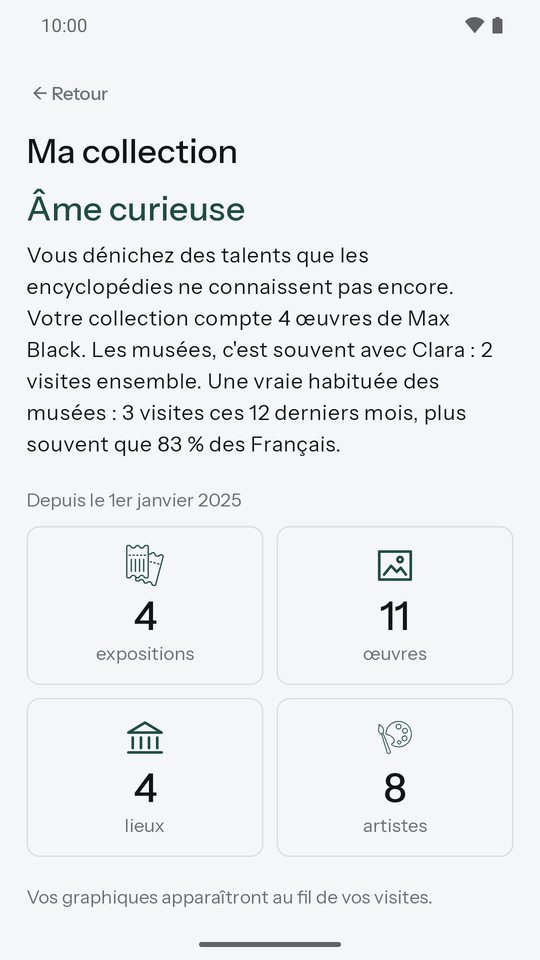
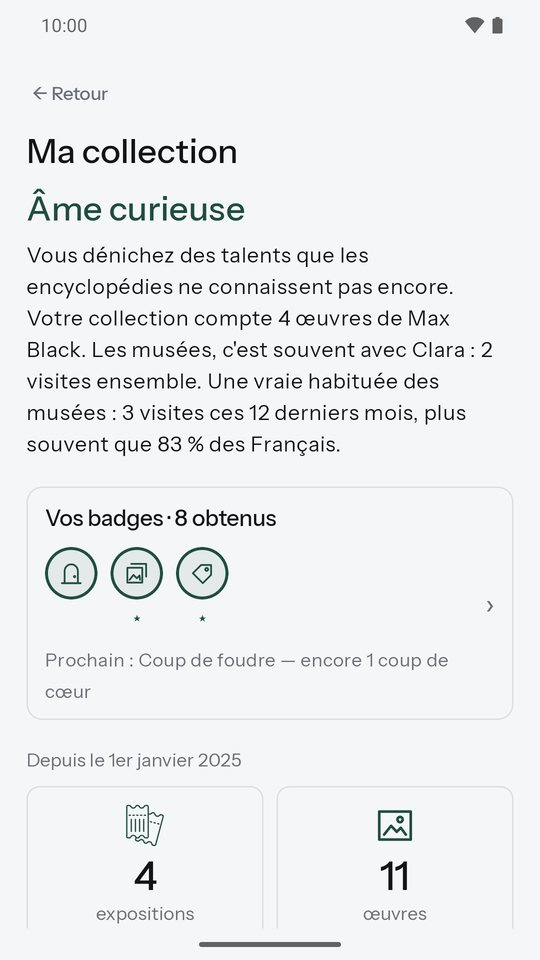
Add files via upload

diff --git a/index.html b/index.html
@@ -129,7 +129,7 @@ footer .wrap { display: flex; flex-wrap: wrap; gap: 8px 24px; justify-content: s
       </div>
       <div class="fonction">
         <div class="texte"><h3>Vos coups de cœur, en un geste</h3><p>Touchez le cœur d'une œuvre, dans la liste ou sur sa fiche : elle rejoint vos coups de cœur. En haut de la liste, un filtre n'affiche plus qu'eux, toujours classés par exposition, date, lieu ou artiste. Votre musée idéal, en un coup d'œil.</p></div>
-        <div class="telephone"><picture><source srcset="assets/fr-sombre-07-coups-de-coeur.jpg" media="(prefers-color-scheme: dark)"><img src="assets/fr-clair-07-coups-de-coeur.jpg" alt="La collection réduite aux coups de cœur" width="540" height="960" loading="lazy" decoding="async"></picture></div>
+        <div class="telephone"><picture><source srcset="assets/fr-sombre-01-liste-expositions.jpg" media="(prefers-color-scheme: dark)"><img src="assets/fr-clair-01-liste-expositions.jpg" alt="La collection, avec un cœur sur chaque œuvre" width="540" height="960" loading="lazy" decoding="async"></picture></div>
       </div>
       <div class="fonction">
         <div class="texte"><h3>Gardez ce qui compte pour vous</h3><p>Vos impressions, le texte du cartel, vos propres tags comme « À revoir ». Plusieurs photos par œuvre, à recadrer ou pivoter d'un geste, et votre musée préféré proposé par défaut.</p></div>
@@ -140,8 +140,12 @@ footer .wrap { display: flex; flex-wrap: wrap; gap: 8px 24px; justify-content: s
         <div class="telephone"><picture><source srcset="assets/fr-sombre-05-recherche.jpg" media="(prefers-color-scheme: dark)"><img src="assets/fr-clair-05-recherche.jpg" alt="Recherche dans la collection" width="540" height="960" loading="lazy" decoding="async"></picture></div>
       </div>
       <div class="fonction">
-        <div class="texte"><h3>Votre collection en chiffres</h3><p>Votre profil d'amateur et un portrait qui évolue avec vos visites : votre artiste de prédilection, votre musée fétiche, votre complice de musée, votre rythme de visite comparé aux statistiques nationales, et vos œuvres par artiste, mouvement, époque et lieu.</p></div>
-        <div class="telephone"><picture><source srcset="assets/fr-sombre-06-ma-collection.jpg" media="(prefers-color-scheme: dark)"><img src="assets/fr-clair-06-ma-collection.jpg" alt="Ma collection en chiffres" width="540" height="960" loading="lazy" decoding="async"></picture></div>
+        <div class="texte"><h3>Votre profil d'amateur</h3><p>« Âme impressionniste », « Passionnée de Renaissance », « Dénicheuse de talents »… Ma collection dresse votre portrait, qui évolue avec vos visites : votre artiste de prédilection, votre musée fétiche, votre complice de musée, votre rythme de visite comparé aux statistiques nationales, et vos œuvres par artiste, mouvement, époque et lieu. Au féminin ou au masculin, comme vous préférez.</p></div>
+        <div class="telephone"><picture><source srcset="assets/fr-sombre-06-ma-collection.jpg" media="(prefers-color-scheme: dark)"><img src="assets/fr-clair-06-ma-collection.jpg" alt="Ma collection : le profil et les chiffres" width="540" height="960" loading="lazy" decoding="async"></picture></div>
+      </div>
+      <div class="fonction">
+        <div class="texte"><h3>Des badges à collectionner</h3><p>Marathon, Quatre saisons, Nuit des musées, Plume… 27 badges se gagnent au fil de vos visites, avec cinq paliers du bronze au diamant. Un message vous prévient dès que vous en décrochez un. Les autres restent une surprise, mais vos prochains objectifs vous montrent ceux qui sont à portée.</p></div>
+        <div class="telephone"><picture><source srcset="assets/fr-sombre-07-mes-badges.jpg" media="(prefers-color-scheme: dark)"><img src="assets/fr-clair-07-mes-badges.jpg" alt="Mes badges et les prochains objectifs" width="540" height="960" loading="lazy" decoding="async"></picture></div>
       </div>
       <div class="fonction">
         <div class="texte"><h3>Vos données restent à vous</h3><p>Tout est enregistré sur votre téléphone. Aucun compte, aucune publicité. Si vous le souhaitez, une sauvegarde dans votre propre Google Drive, avec restauration sur un nouveau téléphone ; vous pouvez la supprimer depuis l'application.</p></div>
@@ -159,7 +163,7 @@ footer .wrap { display: flex; flex-wrap: wrap; gap: 8px 24px; justify-content: s
         <figure><div class="telephone"><picture><img src="assets/fr-clair-06-ma-collection.jpg" alt="Ma collection en chiffres" width="540" height="960" loading="lazy" decoding="async"></picture></div><figcaption>Ma collection en chiffres</figcaption></figure>
         <figure><div class="telephone"><picture><img src="assets/fr-sombre-01-liste-expositions.jpg" alt="Le mode sombre" width="540" height="960" loading="lazy" decoding="async"></picture></div><figcaption>Le mode sombre</figcaption></figure>
         <figure><div class="telephone"><picture><img src="assets/fr-sombre-02-fiche-oeuvre.jpg" alt="La fiche d'une œuvre, en mode sombre" width="540" height="960" loading="lazy" decoding="async"></picture></div><figcaption>La fiche d'une œuvre, en mode sombre</figcaption></figure>
-        <figure><div class="telephone"><picture><img src="assets/fr-sombre-07-coups-de-coeur.jpg" alt="Les coups de cœur, en mode sombre" width="540" height="960" loading="lazy" decoding="async"></picture></div><figcaption>Les coups de cœur, en mode sombre</figcaption></figure>
+        <figure><div class="telephone"><picture><img src="assets/fr-sombre-06-ma-collection.jpg" alt="Ma collection, en mode sombre" width="540" height="960" loading="lazy" decoding="async"></picture></div><figcaption>Ma collection, en mode sombre</figcaption></figure>
         </div>
       </div>
     </section>

diff --git a/en/index.html b/en/index.html
@@ -129,7 +129,7 @@ footer .wrap { display: flex; flex-wrap: wrap; gap: 8px 24px; justify-content: s
       </div>
       <div class="fonction">
         <div class="texte"><h3>Your favourites, in one tap</h3><p>Tap the heart of an artwork, in the list or on its page, and it joins your favourites. At the top of the list, a filter shows only them, still sorted by exhibition, date, place or artist. Your perfect museum at a glance.</p></div>
-        <div class="telephone"><picture><source srcset="../assets/en-sombre-07-coups-de-coeur.jpg" media="(prefers-color-scheme: dark)"><img src="../assets/en-clair-07-coups-de-coeur.jpg" alt="The collection, favourites only" width="540" height="960" loading="lazy" decoding="async"></picture></div>
+        <div class="telephone"><picture><source srcset="../assets/en-sombre-01-liste-expositions.jpg" media="(prefers-color-scheme: dark)"><img src="../assets/en-clair-01-liste-expositions.jpg" alt="The collection, with a heart on each artwork" width="540" height="960" loading="lazy" decoding="async"></picture></div>
       </div>
       <div class="fonction">
         <div class="texte"><h3>Keep what matters to you</h3><p>Your impressions, the label text, your own tags such as "See again". Several photos per artwork, easy to crop or rotate, and your favourite museum suggested by default.</p></div>
@@ -140,8 +140,12 @@ footer .wrap { display: flex; flex-wrap: wrap; gap: 8px 24px; justify-content: s
         <div class="telephone"><picture><source srcset="../assets/en-sombre-05-recherche.jpg" media="(prefers-color-scheme: dark)"><img src="../assets/en-clair-05-recherche.jpg" alt="Searching the collection" width="540" height="960" loading="lazy" decoding="async"></picture></div>
       </div>
       <div class="fonction">
-        <div class="texte"><h3>Your collection in numbers</h3><p>Your art-lover profile and a portrait that evolves with your visits: your favourite artist, your favourite museum, your museum buddy, how often you visit compared with national statistics, and your artworks by artist, movement, era and place.</p></div>
-        <div class="telephone"><picture><source srcset="../assets/en-sombre-06-ma-collection.jpg" media="(prefers-color-scheme: dark)"><img src="../assets/en-clair-06-ma-collection.jpg" alt="My collection in numbers" width="540" height="960" loading="lazy" decoding="async"></picture></div>
+        <div class="texte"><h3>Your art-lover profile</h3><p>"Impressionist soul", "Renaissance enthusiast", "Talent scout"… My collection paints your portrait, which evolves with your visits: your favourite artist, your favourite museum, your museum buddy, how often you visit compared with national statistics, and your artworks by artist, movement, era and place.</p></div>
+        <div class="telephone"><picture><source srcset="../assets/en-sombre-06-ma-collection.jpg" media="(prefers-color-scheme: dark)"><img src="../assets/en-clair-06-ma-collection.jpg" alt="My collection: profile and numbers" width="540" height="960" loading="lazy" decoding="async"></picture></div>
+      </div>
+      <div class="fonction">
+        <div class="texte"><h3>Badges to collect</h3><p>Marathon, Four seasons, Museum Day, Quill… 27 badges to earn as you visit, with five levels from bronze to diamond. A message tells you as soon as you earn one. The others stay a surprise, but your next goals show you the ones within reach.</p></div>
+        <div class="telephone"><picture><source srcset="../assets/en-sombre-07-mes-badges.jpg" media="(prefers-color-scheme: dark)"><img src="../assets/en-clair-07-mes-badges.jpg" alt="My badges and next goals" width="540" height="960" loading="lazy" decoding="async"></picture></div>
       </div>
       <div class="fonction">
         <div class="texte"><h3>Your data stays yours</h3><p>Everything is stored on your phone. No account, no ads. If you wish, a backup to your own Google Drive, with restore on a new phone; you can delete it from the app.</p></div>
@@ -159,7 +163,7 @@ footer .wrap { display: flex; flex-wrap: wrap; gap: 8px 24px; justify-content: s
         <figure><div class="telephone"><picture><img src="../assets/en-clair-06-ma-collection.jpg" alt="My collection in numbers" width="540" height="960" loading="lazy" decoding="async"></picture></div><figcaption>My collection in numbers</figcaption></figure>
         <figure><div class="telephone"><picture><img src="../assets/en-sombre-01-liste-expositions.jpg" alt="Dark mode" width="540" height="960" loading="lazy" decoding="async"></picture></div><figcaption>Dark mode</figcaption></figure>
         <figure><div class="telephone"><picture><img src="../assets/en-sombre-02-fiche-oeuvre.jpg" alt="An artwork page, in dark mode" width="540" height="960" loading="lazy" decoding="async"></picture></div><figcaption>An artwork page, in dark mode</figcaption></figure>
-        <figure><div class="telephone"><picture><img src="../assets/en-sombre-07-coups-de-coeur.jpg" alt="Favourites, in dark mode" width="540" height="960" loading="lazy" decoding="async"></picture></div><figcaption>Favourites, in dark mode</figcaption></figure>
+        <figure><div class="telephone"><picture><img src="../assets/en-sombre-06-ma-collection.jpg" alt="My collection, in dark mode" width="540" height="960" loading="lazy" decoding="async"></picture></div><figcaption>My collection, in dark mode</figcaption></figure>
         </div>
       </div>
     </section>
